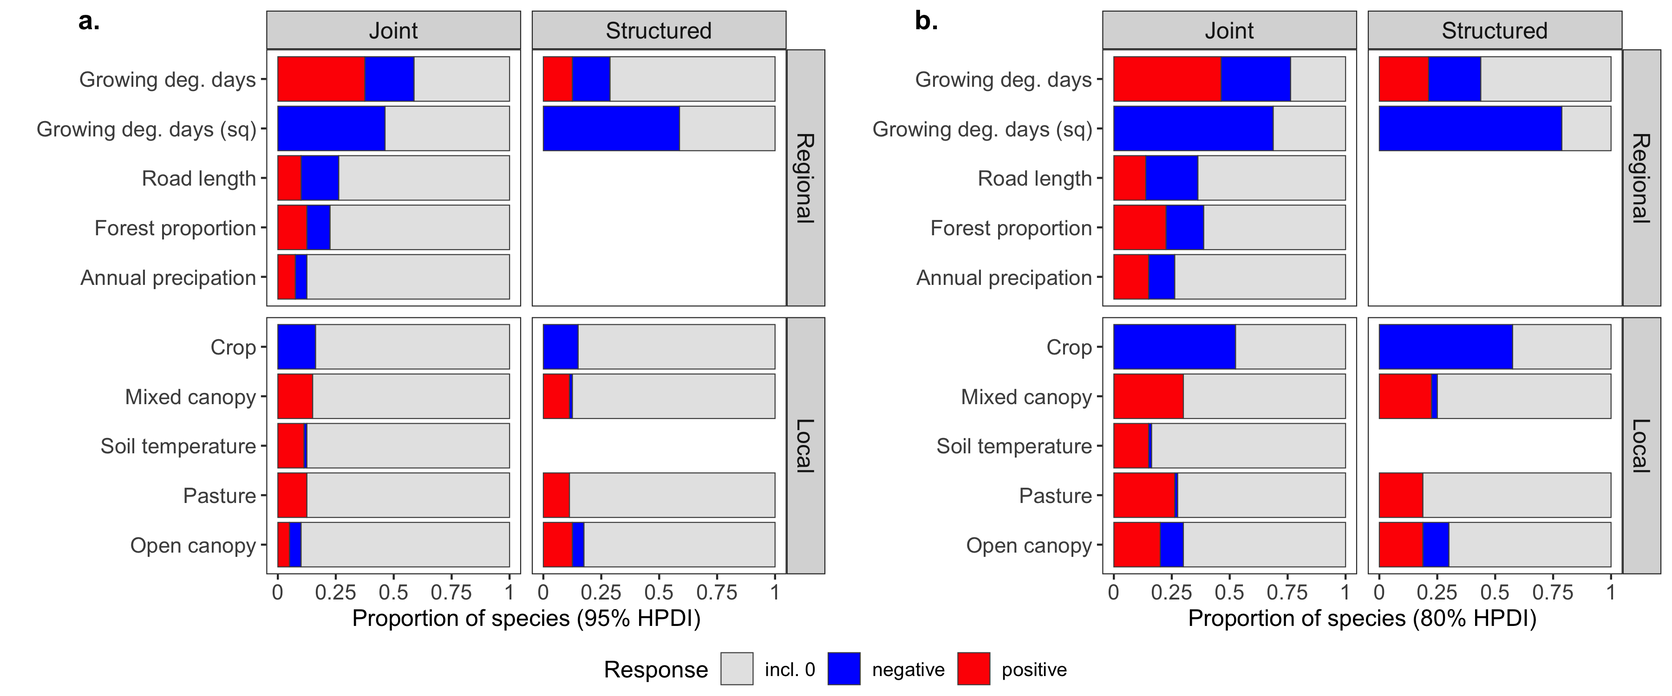
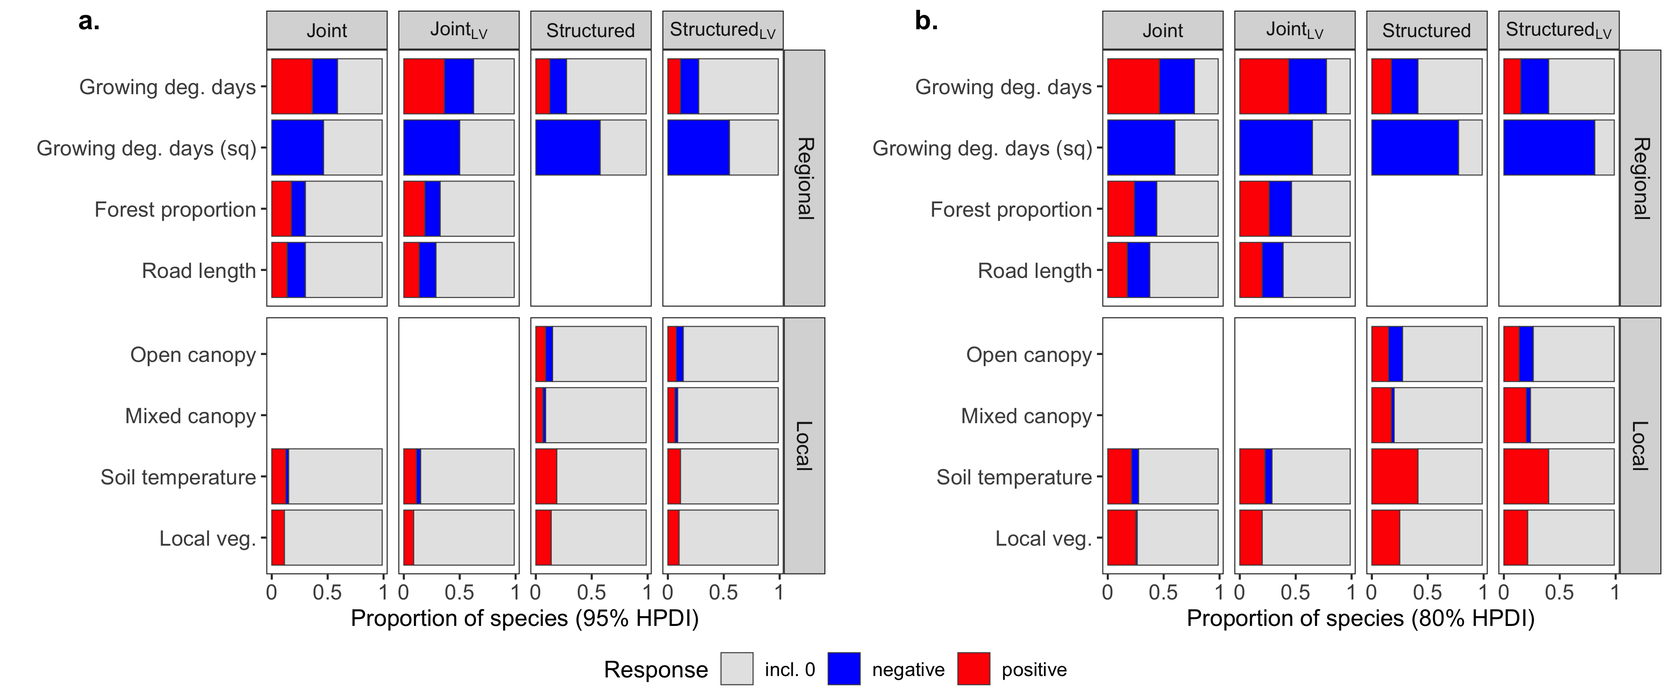
Updates from Overleaf

Changed region(s): [[0.5289, 0.0, 0.9956, 0.92], [0.0, 0.0, 0.4978, 0.92], [0.4667, 0.4293, 0.4978, 0.46]]

diff --git a/ms/1_Ecography/1/opfo_diversity_main.tex b/ms/1_Ecography/1/opfo_diversity_main.tex
@@ -83,7 +83,7 @@ What shapes species richness, diversity, and community structure at different sp
 The aid of citizen scientists can help to overcome logistical limitations common in ecological research. The large number of volunteer collectors can cover a broad spatial extent \citep{Theobald2015}, and include private land that is otherwise inaccessible to researchers \citep{Pernat2020}. Accordingly, citizen science has become increasingly common, with applications ranging from monitoring the spread of an invasive rabbit in Australia \citep{Roy-Dufresne2019} to identifying the impacts of hunting on game species' life history traits in the Amazon \citep{ElBizri2020}, and the samples collected by citizen scientists represent a large component of many ecological datasets \citep{Poisson2020}. The goals and designs of citizen science projects are of course extremely diverse, but one common focus is collecting unstructured species occurrences which are used in species distribution models \citep{Theobald2015,Steen2019,Duan2020,Henckel2020}. After data quality issues such as spatial bias are appropriately accounted for \citep{Isaac2014,Steen2019,Johnston2020,Robinson2020}, the performance of distribution models fit with citizen science data can be equivalent or superior to those fit with scientifically collected data \citep{Steen2019,Sumner2019,Henckel2020}. 
 
 % Modelling richness with presence-only data: iSDMs, jSDMs, MRMs, mSDMs
-Because survey-type citizen science projects often collect a broad set of species within a taxon, they are appealing to use for estimating community-level metrics like richness. A variety of methods have been developed, broadly categorized into those that model richness directly as a function of environmental variables, and those grew from methods for modelling individual species distributions \citep{Dubuis2011,Guisan2011,Calabrese2014,Biber2019}. For the latter, a simple approach stacks independent species distribution models, while more complex approaches model species' distributions jointly or in a hierarchical framework \citep{Caradima2019}. Alternatively, multi-species occupancy models can be used, which explicitly account for imperfect detection and predict the underlying occupancy state and probability of occurrence of each species in the community \citep{Frishkoff2019,Guillera-Arroita2019,Szewczyk2018,Devarajan2020}. However, occupancy models require presence-absence data collected across multiple sampling bouts to estimate detection probabilities, and consequently their use is largely limited to sampling designs with repeated samples.
+Survey-type citizen science projects often collect a broad set of species within a taxon, making them appealing to use for estimating community-level metrics like richness. A variety of methods have been developed, broadly categorized into those that model richness directly as a function of environmental variables, and those grew from methods for modelling individual species distributions \citep{Dubuis2011,Guisan2011,Calabrese2014,Biber2019}. For the latter, a simple approach stacks independent species distribution models, while more complex approaches model species' distributions jointly or in a hierarchical framework \citep{Caradima2019}. Alternatively, multi-species occupancy models can be used, which explicitly account for imperfect detection and predict the underlying occupancy state and probability of occurrence of each species in the community \citep{Frishkoff2019,Guillera-Arroita2019,Szewczyk2018,Devarajan2020}. However, occupancy models require presence-absence data collected across multiple sampling bouts to estimate detection probabilities, and consequently their use is largely limited to sampling designs with repeated samples.
 
 % Methods for merging datasets
 Recent data integration techniques allow researchers to capitalize on the strengths of unstructured presence-only datasets while overcoming their limitations by combining them with structured samples \citep{Isaac2019,Miller2019}. These data integration methods aim to exploit the respective strengths of unstructured presence-only datasets such as those collected by citizen scientists, and structured samples collected by researchers. Models based on these integrated datasets often outperform those based on the individual structured and unstructured datasets \citep{Dorazio2014b,Fithian2015,Koshkina2017a}. For example, presence-only citizen science data are often better at detecting rare species, while datasets collected in a structured manner better represent community composition and abundance \citep{Steen2019,Henckel2020,Pernat2020}. Bayesian methods naturally and flexibly accommodate the incorporation of multiple datasets \citep{Clark2005,BeckEtAl2012,Szewczyk2018}, either by estimating a joint likelihood for all observations, or by incorporating the unstructured presence-only dataset as a covariate or via prior distribution \citep{Fletcher2019,Isaac2019,Miller2019}. 
@@ -105,11 +105,11 @@ Here, we combine species occurrences of ants collected in a citizen science proj
 \section{Methods}
 \label{S:2}
 \subsection{Study region \& sampling design}
-This study focuses on ant species in the canton of Vaud in western Switzerland (46.2–47.0$^{\circ}$N, 6.1–7.2$^{\circ}$E), a topographically heterogeneous region (372–3201m) that includes the Jura mountains in the west, the Alps in the east, and the Swiss plateau centrally (Fig. \ref{fig:VD_map}). Much of the central plateau is dominated by anthropogenic land use, including cropland, vineyards, pastures, and urban areas, with areas of predominantly deciduous forest. The mountainous regions span the forested montane and subalpine zones through the alpine zone, with widespread cattle grazing \citep{Delarze2015,Gago-Silva2017,Beck2017}. 
+This study focuses on ant species in the canton of Vaud in western Switzerland (46.2–47.0$^{\circ}$N, 6.1–7.2$^{\circ}$E), a topographically heterogeneous region (372–3201m) that includes the Jura mountains in the west, the Alps in the east, and the Swiss plateau centrally (Fig. \ref{fig:VD_map}). Much of the central plateau is dominated by anthropogenic land use, including cropland, vineyards, pastures, and urban areas, with forested areas that are predominantly deciduous. The mountain ranges rise steeply from the plateau from approximately 1000m and span the forested montane and subalpine zones through the alpine zone, with widespread cattle grazing \citep{Delarze2015,Gago-Silva2017,Beck2017}. 
 
 \begin{figure}
 	\centering\includegraphics[width=3.5in]{ms/1_Ecography/1/figs/map_VD+inset.png}
-	\caption{\label{fig:VD_map} Map of the canton of Vaud, Switzerland. Samples consisted of presence-only data (blue points) and structured abundance data collected at 1 km$^2$ long-term biodiversity monitoring sites (red squares). The canton is comprised of a low-elevation central plateau, the Jura mountains in the west, and the Alps in the east. }
+	\caption{\label{fig:VD_map} Map of the canton of Vaud, Switzerland. Samples consisted of presence-only data (blue points) and structured abundance data collected at 1 km$^2$ long-term biodiversity monitoring sites (red squares). }
 \end{figure}
 
 % Methods for citizen science data
@@ -150,7 +150,7 @@ The structured abundances, \textbf{Y}, are observed at the local scale. The numb
         log(\lambda_{is}) = a_s V_i + \gamma_s \zeta_i + log(h\Lambda_{js}) \\
         \label{eq:lambda}
     \end{equation}
-where \textbf{V} is a matrix of local environmental covariates, $a_s$ is a vector of species-specific responses, $\zeta_i$ is a latent variable representing unmeasured local variables or biotic interactions with $\gamma_s$ as a species-specific latent variable coefficient constrained between $-1$ and $1$ \citep{Ovaskainen2016,Caradima2019,Tobler2019}, $h$ is a constant scaling factor representing the proportion of site $j$ sampled by plot $i$ (1.2 $m^2 /$ 1 km$^2$ = 1.2e-6), and $\Lambda_{js}$ is the regional intensity of species $s$ at site $j$. Thus, $log(h\Lambda_{js})$ functions as a site-level intercept or mean intensity, determining the baseline expected intensity at each plot within each site, with local intensities further dependent on the effects of the local environment \citep{Yamaura2016,Miller2019}.
+where \textbf{V} is a matrix of local environmental covariates, $a_s$ is a vector of species-specific responses, $\zeta_i$ is a latent variable representing unmeasured local environmental variables or biotic interactions with $\gamma_s$ as a species-specific latent variable coefficient constrained between $-1$ and $1$ \citep{Ovaskainen2016,Caradima2019,Tobler2019}, $h$ is a constant scaling factor representing the proportion of site $j$ sampled by plot $i$ (1.2 $m^2 /$ 1 km$^2$ = 1.2e-6), and $\Lambda_{js}$ is the regional intensity of species $s$ at site $j$. Thus, $log(h\Lambda_{js})$ functions as a site-level intercept or mean intensity, determining the baseline expected intensity at each plot within each site, with local intensities then modified by effects of the local environment \citep{Yamaura2016,Miller2019}.
 
 The presence-only data, \textbf{W}, are observed as detections of each species within 1 km$^2$ grid cells at the regional scale. The number of detections of each species $s=1 \dots S$ within each 1 km$^2$ cell $k$ follow a multinomial distribution such that:
     \begin{equation}
@@ -159,7 +159,7 @@ The presence-only data, \textbf{W}, are observed as detections of each species w
     \end{equation}
 where $\{W_{ks}\}_{s=1}^{S}$ is a vector of length $S$ with the number of detections for each species within the cell, $\sum_{1}^{S} W_{ks}$ is the total number of detections within the cell, $D_s$ is the proportional detection bias for each species, which accounts for bias in the community composition based on species that are more likely to be observed, and $\varsigma_k(\cdot)$ is the softmax function which converts the weighted intensities to probabilities that sum to 1 within each cell. For each species $s$ in cell $k$, the observed count $W_{ks}$ is expected to be higher if the species has high relative abundance ($\Lambda_{ks}$ is larger relative to other species), more samples were collected ($\sum_{s=1}^{S} W_{ks}$ is larger), or if species $s$ is likely to be over-represented in the presence-only dataset ($D_s$ is larger). The presence-only counts thus inform the relative patterns of species across the landscape, while accounting for spatial and taxonomic bias in sampling intensity \citep{Isaac2014}.
 
-While \textbf{W} and \textbf{Y} are each modelled with distinct sampling submodels to represent their particular sampling methods, both $\Lambda_{js}$ and $\Lambda_{ks}$ represent the latent intensity of species $s$ at an identical 1 km$^2$ regional scale. Consequently, the regional intensity $\Lambda_{(j,k)s}$ is a shared parameter that links the two datasets \citep{Hefley2016,Isaac2019,Miller2019}. The ecological processes driving variation in regional intensity are assumed to be the same, and the intensities are modelled together in a single regression such that:
+While \textbf{W} and \textbf{Y} are each modelled with distinct sampling submodels to represent their particular sampling methods, both $\Lambda_{js}$ and $\Lambda_{ks}$ represent the latent intensity of species $s$ at an identical 1 km$^2$ regional scale. Consequently, the regional intensity $\Lambda_{(j,k)s}$ is a shared parameter that links the two datasets \citep{Hefley2016,Isaac2019,Miller2019}. The ecological processes driving variation in regional intensity are assumed to be the same across datasets, and the intensities are modelled together in a single regression such that:
     \begin{equation}
         log(\Lambda_{(j,k)s}) = b_s X_{(j,k)} \\
         \label{eq:LAMBDA}
@@ -168,35 +168,35 @@ where $b_s$ is a vector of species-specific slopes, and \textbf{X} is a matrix o
 
 The slopes $a_s$ and $b_s$ are species-specific responses at local and regional scales, respectively, and are distributed about genus-level means $A_g$ and $B_g$ with standard deviations $\sigma_a$ and $\sigma_b$. The genus-level means are in turn distributed about aggregate means, $\alpha$ and $\beta$, with correlation matrices $\Sigma_A$ and $\Sigma_B$, which reflect the overall responses of the ant community to environmental variables at each resolution while accounting for relatedness at the genus level \citep{Hadfield2010b,Ovaskainen2011,Szewczyk2018,Caradima2019}.
 
-Prior distributions were lightly informative to constrain the sampling algorithm to plausible ranges. Specifically, aggregate slopes $\alpha$ and $\beta$ were distributed Normal($\mu=0$, $\sigma=1$), the intensity intercept $\beta_0$ was distributed Normal($\mu=-4$, $\sigma=2$), standard deviations for species and genus slopes were distributed Normal($\mu=0$, $\sigma=2$) and constrained to be positive, the correlation matrices used a Cholesky decomposition and followed an LKJ prior as recommended for better model fitting \citep{Carpenter2017,Caradima2019} with $\eta=2$, and the proportional taxonomic bias term $D$ was distributed Normal($\mu=1$, $\sigma=1$) and constrained to be positive. Code for the full model is available on GitHub (https://github.com/Sz-Tim/CH\_diversity -- versioned DOI at submission).
+Prior distributions were lightly informative to constrain the sampling algorithm to plausible ranges. Specifically, aggregate slopes $\alpha$ and $\beta$ were distributed Normal($\mu=0$, $\sigma=1$), the log intensity intercept $\beta_0$ was distributed Normal($\mu=-4$, $\sigma=2$), standard deviations for species and genus slopes were distributed Normal($\mu=0$, $\sigma=2$) and constrained to be positive, the correlation matrices used a Cholesky decomposition and followed an LKJ prior as recommended for better model performance \citep{Carpenter2017,Caradima2019} with $\eta=2$, and the proportional taxonomic bias term $D$ was distributed Normal($\mu=1$, $\sigma=1$) and constrained to be positive. Code for the full model is available on GitHub (https://github.com/Sz-Tim/CH\_diversity -- versioned DOI at submission).
 
-Finally, several quantities were calculated in sample from the posterior. Probability of presence was calculated as $1 - e^{-\Lambda_{(j,k)s}}$ at the regional scale \citep{Hefley2016}, and $1 - pr(0 | \lambda_{is}, \theta)$ at the local scale. Predicted richness was calculated within each plot or grid cell as the sum of species-level Bernoulli draws based on the probability of presence. Shannon's H was calculated at each plot using $\lambda_{i,1:S}$ and in each cell using $\Lambda_{(j,k),1:S}$. Total predicted intensity was calculated as $\sum_{s=1}^{S}\Lambda_{(j,k)s}$ and $\sum_{s=1}^{S}\lambda_{is}$. The correlation in residuals among species was calculated as $\gamma \gamma^T + diag(1 - \gamma^2)$ \citep{Tobler2019}. Thus, posterior predictions of local patterns were based only on the local plots at the 44 structured sites, while those of regional patterns were based on the 44 structured sites and the entire gridded landscape for Vaud (Fig. \ref{fig:VD_map}). 
+Finally, several quantities were calculated in sample from the posterior. Probability of presence was calculated as $1 - e^{-\Lambda_{(j,k)s}}$ at the regional scale \citep{Hefley2016}, and $1 - pr(0 | \lambda_{is}, \theta)$ at the local scale. Predicted richness was calculated within each plot or grid cell as the sum of species-level Bernoulli draws based on the probability of presence. Shannon's H was calculated at each plot using $\lambda_{i,1:S}$ and in each cell using $\Lambda_{(j,k),1:S}$. Total predicted intensity was calculated as $\sum_{s=1}^{S}\Lambda_{(j,k)s}$ and $\sum_{s=1}^{S}\lambda_{is}$. The correlation in residuals among species was calculated as $\gamma \gamma^T + diag(1 - \gamma^2)$ \citep{Tobler2019}. Posterior predictions of local patterns were based only on the local plots at the 44 structured sites, while those of regional patterns were based on the 44 structured sites and the entire gridded landscape for Vaud (Fig. \ref{fig:VD_map}). 
 
 
 \subsection{Variable selection \& model fitting}
-To evaluate the effect of including the presence-only data, \textbf{W}, we compared a version of the model with and without \textbf{W}. We refer to the model that uses both \textbf{W} and \textbf{Y} as the \emph{Joint} model, and the model using only \textbf{Y} as the \emph{Structured} model. The \emph{Structured} model therefore does not include Eq. \ref{eq:W_Mn}, but nevertheless includes species only detected in \textbf{W}. We performed variable selection separately on the two models.
+To evaluate the effect of including the presence-only data, \textbf{W}, we compared a version of the model with and without \textbf{W}. We refer to the model that uses both \textbf{W} and \textbf{Y} as the \emph{Joint} model, and the model using only \textbf{Y} as the \emph{Structured} model. The \emph{Structured} model therefore does not include Eq. \ref{eq:W_Mn}, but nevertheless includes species only detected in \textbf{W}. Additionally, we compared versions of each model with and without the local latent variable term ($\gamma_s \zeta_i$, \ref{eq:Y_GP}), where the former is denoted with a subscript $LV$. We performed variable selection separately on the four models.
 
-Because comparing all possible models was not feasible, variable selection was performed using a 4-fold cross-validation with a step-wise forward search. The 44 sites in the structured abundance dataset \textbf{Y} were divided into 4 subsets using the R package \emph{caret} 6.0.86. The models were parameterized using 3 of the subsets and predictive ability assessed using the 4$^{th}$, with four separate model runs such that all subsets were predicted once. In each round, the log pointwise predictive density of the observed abundances given the predicted local intensities for each candidate model was calculated and compared using the R package \emph{loo} 2.3.1. Variables were added sequentially until predictive ability unambiguously declined, and the variable sets for the \emph{Joint} and \emph{Structured} models with the best out-of-sample predictive ability were considered optimal.
+Because comparing all possible models was not feasible, variable selection was performed using a 4-fold cross-validation with a step-wise forward search. The 44 sites in the structured abundance dataset \textbf{Y} were divided into 4 subsets using the R package \emph{caret} 6.0.86. The models were parameterized using 3 of the subsets and predictive ability assessed using the 4$^{th}$, with four separate model runs such that all subsets were predicted once. In each round, the log pointwise predictive density of the observed abundances given the predicted local intensities for each candidate model was calculated and compared using the R package \emph{loo} 2.3.1. Variables were added sequentially, and the variable sets for the $Joint$, $Joint_{LV}$, $Structured$, and $Structured_{LV}$ models with the best out-of-sample predictive ability were considered optimal.
 
-We assessed model performance of the optimal models based on deviance using the structured abundance observations such that $d = \sum_{i=1}^{I}\sum_{s=1}^S log(P(Y_{is} | \lambda_{is}, \theta))$ in each sample from the posterior, with the explanatory power of each proposed model as $D^2 = \frac{d_{null} - d_{proposed}}{d_{null}}$ \citep{Guisan2000,Caradima2019}. We used an intercept-only model fit with the structured abundances as the null model. We calculated an overall $D^2$ using all abundances, species-specific $D^2_s$ to compare performance across species, and plot-specific $D^2_i$ to compare performance across elevations.
+We assessed model performance of the optimal models based on deviance using the structured abundance observations such that $d = \sum_{i=1}^{I}\sum_{s=1}^S log(P(Y_{is} | \lambda_{is}, \theta))$ in each sample from the posterior, with the explanatory power of each proposed model as $D^2 = \frac{d_{null} - d_{proposed}}{d_{null}}$ \citep{Guisan2000,Caradima2019}. We used an intercept-only model fit with the structured abundances as the null model. We calculated an overall $D^2$ using all abundances, species-specific $D^2_s$ to compare performance across species, and plot-specific $D^2_i$ to compare performance across elevations. We calculated these metrics for the fitted full model, and for the predicted subsets during the 4-fold cross validation to assess improvement in performance for out-of-sample plots in the optimal models.
 
-All Bayesian models were written in Stan \citep{Carpenter2017} and run in \emph{CmdStan} 2.23.0. In contrast to BUGS or JAGS, which use Gibbs samplers for the Markov Chain Monte Carlo algorithm, Stan uses a Hamiltonian Monte Carlo algorithm which requires a warm-up period to tune the sampler parameters rather than a burn-in period. During variable selection, we ran 3 chains for each model with 2,500 iterations per chain, with 2,000 iterations for the warm-up period. For the optimal models, we ran 12 chains with 2,250 iterations each, with 2,000 iterations for the warm-up period. Model behavior and convergence was assessed by confirming that all $\hat{R}$ values were $\leq$ 1.1, visually inspecting a selection of trace plots, and confirming that no divergent transitions occurred during the sampling, which would indicate a poor approximation of the joint posterior distribution. Highest Posterior Density Intervals (HPDIs) were calculated for all parameters of interest using the R package \emph{HDInterval} 0.2.2.
+All Bayesian models were written in Stan \citep{Carpenter2017} and run in \emph{CmdStan} 2.23.0. In contrast to BUGS or JAGS, which use Gibbs samplers for the Markov Chain Monte Carlo algorithm, Stan uses a Hamiltonian Monte Carlo algorithm which requires a warm-up period to tune the sampler parameters rather than a burn-in period. During variable selection, we ran 3 chains for each model with 2,500 iterations per chain, with 2,000 iterations for the warm-up period. For the optimal models, we ran 12 chains with 2,250 iterations each, with 2,000 iterations for the warm-up period. Model behavior and convergence was assessed by confirming that all $\hat{R}$ values were $\leq$ 1.1, visually inspecting a selection of trace plots including hyperparameters, and confirming that no divergent transitions occurred during the sampling, which would indicate a poor approximation of the joint posterior distribution. Highest Posterior Density Intervals (HPDIs) were calculated for all parameters of interest using the R package \emph{HDInterval} 0.2.2.
 
 
 \subsection{Community analyses}
-Using the $\lambda$ posterior medians, we calculated the $\beta$-diversity among plots within each site using the R package \emph{betapart} 1.5.1. The overall $\beta$-diversity at each site was partitioned into the balanced variation and abundance-gradient components, representing changes in relative abundance among species and changes in total abundance, respectively \citep{Baselga2017}. Change across elevation was assessed using linear and quadratic regressions compared with AICc using the R package \emph{AICcmodavg} 2.3.0. A double principal coordinates analysis (DPCoA) was also performed using $\lambda$ posterior medians to assess similarity in taxonomically-weighted community structure among plots \citep{Dray2015,Pavoine2019} using the R packages \emph{ade4} 1.7.15 and \emph{vegan} 2.5.6. 
+Using the $\lambda$ posterior medians, we calculated the $\beta$-diversity among plots within each site using the R package \emph{betapart} 1.5.1. The overall $\beta$-diversity at each site was partitioned into the balanced variation and abundance-gradient components, representing changes in relative abundance among species and changes in total abundance, respectively \citep{Baselga2017}. Change across elevation for total $\beta$-diversity and each component was assessed using linear and quadratic regressions compared with AICc using the R package \emph{AICcmodavg} 2.3.0. A double principal coordinates analysis (DPCoA) was also performed using $\lambda$ posterior medians to assess similarity in taxonomically-weighted community structure among plots \citep{Dray2015,Pavoine2019} using the R packages \emph{ade4} 1.7.15 and \emph{vegan} 2.5.6. The elevational distribution of each species was characterized by the observed elevational range, and by the proportion of total $\Lambda$ in plateau ($<$1000m) or montane ($\geq$1000m) environments.
 
 
 
 
 \section{Results}
 \label{S:3}
-A total of 80 species were detected across both datasets, with 76 in the presence-only dataset and 51 in the structured abundance dataset. There were 29 species detected only in the presence-only dataset, and 4 species detected only in the structured abundance dataset. The presence-only dataset contained 6460 samples collected by citizen scientists and 363 supplemental transect or tree samples, covering nearly half of the grid (1324 cells with occurrences = 42\%; range: 1–162 occurrences; median: 3 occurrences). The structured abundance dataset contained 1017 colonies detected across the 44 sites (per-site median: 22.5 colonies; range: 6–58 colonies). 
+A total of 79 species were detected across both datasets, with 76 in the presence-only dataset and 51 in the structured abundance dataset. There were 28 species detected only in the presence-only dataset, and 3 species detected only in the structured abundance dataset. The presence-only dataset contained 6460 samples collected by citizen scientists and 363 supplemental transect or tree samples, covering nearly half of the grid (1324 cells with occurrences = 42\%; range: 1–162 occurrences; median: 3 occurrences). The structured abundance dataset contained 1017 colonies detected across the 44 sites (per-site median: 22.5 colonies; range: 6–58 colonies). 
 
 % Model performance & covariates
-The model parameterized with both the presence-only and structured abundance datasets (\emph{Joint} model) outperformed the model parameterized with only the structured abundance dataset (\emph{Structured} model), though both showed dramatic improvements compared to the intercept-only model (\emph{Joint} $D^2$ mean: TK, 95\% HPDIs: TK–TK; \emph{Structured} $D^2$ mean: 0.211, 95\% HPDIs: 0.202–0.219). Model performance was like this across species (\emph{Joint} $D^2_s$ mean ± SE: TK ± TK; \emph{Structured} $D^2_s$ mean ± SE: TK ± TK). Across elevations, there was no clear pattern in $D^2_i$.
+\textbf{UPDATE THIS SENTENCE:} The model parameterized with both the presence-only and structured abundance datasets (\emph{Joint}$_{LV}$ model) outperformed the model parameterized with only the structured abundance dataset (\emph{Structured} model), whether or not a local latent variable was included. Both showed clear improvements compared to the intercept-only model (\emph{Joint} $D^2$ mean: TK, 95\% HPDIs: TK–TK; \emph{Joint}$_{LV}$ $D^2$ mean: TK, 95\% HPDIs: TK–TK; \emph{Structured} $D^2$ mean: TK, 95\% HPDIs: TK–TK; \emph{Structured}$_{LV}$ $D^2$ mean: TK, 95\% HPDIs: TK–TK). Model performance was like this across species (\emph{Joint} $D^2_s$ mean ± SE: TK ± TK; \emph{Joint}$_{LV}$ $D^2_s$ mean ± SE: TK ± TK; \emph{Structured} $D^2_s$ mean ± SE: TK ± TK; \emph{Structured}$_{LV}$ $D^2_s$ mean ± SE: TK ± TK). Across elevations, there was no clear pattern in $D^2_i$ (\textbf{Appendix 2 Fig. X}).
 
-In the cross-validation, the \emph{Joint} model consistently predicted local abundances better than the \emph{Structured} model (\textbf{Table}). The optimal variables for both models included growing degree days at a regional scale, and local effects of soil temperature, canopy type, cropland, and pastureland (Fig. \ref{fig:slope_means}). The optimal \emph{Joint} model also included regional effects of net primary productivity, forest cover, and TK, and local effects of total vegetation. For many variables, species showed a variety of responses, resulting in no clear aggregate effect as the 95\% Highest Posterior Density Intervals (HPDIs) for $\beta$ included zero. However, the aggregate effect of growing degree days was positive in the \emph{Joint} model, and the aggregate effects of squared growing degree days and cropland were negative in both models. For soil temperature, pasture, and mixed canopy, nearly all species with non-zero HPDIs showed positive responses (\textbf{Appendix 2 Figure}). The \emph{Joint} model reduced uncertainty in species' responses compared to the \emph{Structured} model across most covariates (Fig. \ref{fig:slope_means}b). This reduction occurred on average across all species, but was greater for species that did not occur in the structured abundance dataset \textbf{Y}.
+In the cross-validation, the \emph{Joint} models consistently predicted local abundances better than the \emph{Structured} models (\textbf{Table}). In both cases, the inclusion of a local latent variable did not impact the optimal variables. The optimal variables for all models included growing degree days at a regional scale, and local effects of TK (Fig. \ref{fig:slope_means}). The optimal \emph{Joint} models also included regional effects of net primary productivity, forest cover, and TK, and local effects of total vegetation. For many variables, species showed a variety of responses, resulting in no clear aggregate effect as the 95\% Highest Posterior Density Intervals (HPDIs) for $\beta$ included zero. However, the aggregate effect of growing degree days was positive in the \emph{Joint} models, and the aggregate effects of squared growing degree days and cropland were negative in both models. For soil temperature, pasture, and mixed canopy, nearly all species with non-zero HPDIs showed positive responses (\textbf{Appendix 2 Figure}). The \emph{Joint} model reduced uncertainty in species' responses compared to the \emph{Structured} model across most covariates (Fig. \ref{fig:slope_means}b). This reduction occurred on average across all species, but was greater for species that did not occur in the structured abundance dataset \textbf{Y}.
 
 \begin{figure}
 \centering\includegraphics[width=6in]{ms/1_Ecography/1/figs/slope_means+HDI.png}
@@ -208,14 +208,14 @@ Across the canton of Vaud, predicted ant richness showed a peak just below 1000m
 
 \begin{figure}
 	\centering\includegraphics[width=6in]{ms/1_Ecography/1/figs/el_patterns.png}
-	\caption{\label{fig:el_patterns} Elevational patterns of posterior distributions at regional and local scales for (a) species richness, (b) Shannon H diversity, and (c) total colony intensity. Lines and ribbons are loess lines using the posterior medians and 95\% Highest Posterior Density Interval, respectively, for the model parameterized with both datasets (\emph{Joint}: purple) and the model parameterized with only the structured abundance data (\emph{Structured}: green). }
+	\caption{\label{fig:el_patterns} Elevational patterns of posterior distributions at regional and local scales for (a) species richness, (b) Shannon H diversity, and (c) total colony intensity. Lines and ribbons are loess lines using the posterior medians and 95\% Highest Posterior Density Interval, respectively, for the model parameterized with both datasets (\emph{Joint}: purple) and the model parameterized with only the structured abundance data (\emph{Structured}: green), with (darker shades) and without (lighter shades) a local latent variable. }
 \end{figure}
 
 The local ant communities showed strong separation across elevations. Using the posterior median local communities predicted by the \emph{Joint} model, communities formed two distinct clusters representing plateau ($<$1000m) and montane ($\geq$1000m) plots (Fig. \ref{fig:dpcoa}). The DPCoA accounts for relatedness among species, with the 100m elevational bins (Fig. \ref{fig:dpcoa}a) or regions (Fig. \ref{fig:dpcoa}b) applied \emph{post-hoc}. No clear pattern is seen at elevations $<$1000m, while elevation increases down the y-axis at elevations $\geq$1000m. Plateau communities form a broader cluster, indicating greater variation among local ant communities. Montane communities form a smaller cluster, with little differentiation in the communities found in the western Jura mountains and those in the eastern Alps.
 
 \begin{figure}
 	\centering\includegraphics[width=5in]{ms/1_Ecography/1/figs/DPCoA.png}
-	\caption{\label{fig:dpcoa} Double principle coordinate analysis (DPCoA) of local communities predicted by the \emph{Joint} model, with plots colored by (a) elevational bin, and (b) region. The central plateau includes hills from ~300m to ~1000m, with the Jura and the Alps rising steeply in the east and west, respectively. }
+	\caption{\label{fig:dpcoa} Double principle coordinate analysis (DPCoA) of local communities predicted by the $Joint_{LV}$ model, with plots colored by (a) elevational bin, and (b) region. The central plateau includes hills from $\sim$300m to $\sim$1000m, with the Jura and the Alps rising steeply in the east and west, respectively. }
 \end{figure}
 
 Both the presence-only (\textbf{W}) and structured abundance (\textbf{Y}) datasets showed strong differences in the genus composition between the plateau and montane samples (Fig. \ref{fig:genus_assemblages}). In both datasets, the plateau ($<$1000m) was dominated by \emph{Lasius spp.}, with high representation of \emph{Formica spp.} in the montane zone ($\geq$1000m). The structured abundance dataset also showed high relative abundance of \emph{Myrmica spp.}, particularly in montane environments. Compared to the structured abundance dataset, the presence-only dataset under-represented 15 species (19\%) based on 95\% HPDIs (\textbf{Appendix 2 Fig}). Nine of those species were in the genus \emph{Myrmica}, which was particularly prevalent in the montane structured abundance samples. In contrast, only 3 species were over-represented, including the anthropophilic pavement ant \emph{Tetramorium immigrans}, and two species of large-bodied mound-building \emph{Formica}. 
@@ -251,6 +251,9 @@ Divergent patterns at a local vs. regional scale. Seems like there's some densit
 % Supported drivers
 Paragraph on supported environmental drivers. Temperature preferences vary a lot between species. So do canopy effects. Crop is universally bad, pasture is mostly good. Local soil temperature is mostly good. 
 
+% Latent variable and correlations
+Paragraph speculating about what the latent variable and species correlation could represent. Probably more an unmeasured covariate than biotic interactions, looking at the correlation matrix. Maybe something that could affect the suitability for colony construction like the number of nice rocks or something.
+
 % Assemblages
 Paragraph on assemblages. There's some work that supported this, but it's not the most common thing to find based on my memory. But in these ants it's pretty clear that the communities cluster into plateau and montane assemblages. However, this distinction is driven by a minority of species; 51\% of species were detected in both the plateau and the montane, with 34\% restricted to the plateau and 15\% exclusively montane. Thus, while the local communities can be clearly distinguished, that does not mean they are entirely distinct. Given the differences between the Jura and the Alps (which are what?), it's maybe a little surprising to not really see any differentiation. On the other hand, how determined are these lambdas by the environment? If the regional and local variables don't show much differentiation between the two mountain ranges, then the lambdas wouldn't either... I could add a PCA of the environmental variables to the appendix. But even so, there's nothing in the model that forces the communities to separate cleanly by elevation. That's a reflection of the data. I should also add an appendix figure of the elevational range of each species. There's also more local variation in the species composition at lower elevations, meaning more variation in the expected species identities across plots. 
 
@@ -269,7 +272,7 @@ Conclusion
 
 
 \section{Acknowledgments}
-Thanks to everyone.
+Thanks to everyone: main people with Opération Fourmis, expert taxonomists, citizen scientists, field help, feedback from lab group.
 
 \newpage
 \section{Bibliography}
@@ -362,22 +365,42 @@ Thanks to everyone.
 \end{figure}
 
 \begin{figure}
-	\centering\includegraphics[width=5in]{ms/1_Ecography/1/figs/maps/sf_S_WY.png}
+	\centering\includegraphics[width=5in]{ms/1_Ecography/1/figs/maps/sf_S_J.png}
 	\caption{\label{fig:sf_map_Joint} Maps of predicted richness in the \emph{Joint} model for subfamilies. Predictions are based on 95\% Highest Posterior Density Intervals for each species. }
 \end{figure}
 
 \begin{figure}
-	\centering\includegraphics[width=5in]{ms/1_Ecography/1/figs/maps/sf_S_Y.png}
+	\centering\includegraphics[width=5in]{ms/1_Ecography/1/figs/maps/sf_S_J+LV.png}
+	\caption{\label{fig:sf_map_Joint+LV} Maps of predicted richness in the \emph{Joint + LV} model for subfamilies. Predictions are based on 95\% Highest Posterior Density Intervals for each species. }
+\end{figure}
+
+\begin{figure}
+	\centering\includegraphics[width=5in]{ms/1_Ecography/1/figs/maps/sf_S_S+LV.png}
+	\caption{\label{fig:sf_map_Structured+LV} Maps of predicted richness in the \emph{Structured + LV} model for subfamilies. Predictions are based on 95\% Highest Posterior Density Intervals for each species. }
+\end{figure}
+
+\begin{figure}
+	\centering\includegraphics[width=5in]{ms/1_Ecography/1/figs/maps/sf_S_S.png}
 	\caption{\label{fig:sf_map_Structured} Maps of predicted richness in the \emph{Structured} model for subfamilies. Predictions are based on 95\% Highest Posterior Density Intervals for each species. }
 \end{figure}
 
 \begin{figure}
-	\centering\includegraphics[width=6in]{ms/1_Ecography/1/figs/maps/gen_S_WY.png}
+	\centering\includegraphics[width=6in]{ms/1_Ecography/1/figs/maps/gen_S_J+LV.png}
+	\caption{\label{fig:gen_map_Joint_LV} Maps of predicted richness in the \emph{Joint + LV} model for genera with at least two species. Predictions are based on 95\% Highest Posterior Density Intervals for each species. }
+\end{figure}
+
+\begin{figure}
+	\centering\includegraphics[width=6in]{ms/1_Ecography/1/figs/maps/gen_S_J.png}
 	\caption{\label{fig:gen_map_Joint} Maps of predicted richness in the \emph{Joint} model for genera with at least two species. Predictions are based on 95\% Highest Posterior Density Intervals for each species. }
 \end{figure}
 
 \begin{figure}
-	\centering\includegraphics[width=6in]{ms/1_Ecography/1/figs/maps/gen_S_Y.png}
+	\centering\includegraphics[width=6in]{ms/1_Ecography/1/figs/maps/gen_S_S+LV.png}
+	\caption{\label{fig:gen_map_Structured_LV} Maps of predicted richness in the \emph{Structured + LV} model for genera with at least two species. Predictions are based on 95\% Highest Posterior Density Intervals for each species. }
+\end{figure}
+
+\begin{figure}
+	\centering\includegraphics[width=6in]{ms/1_Ecography/1/figs/maps/gen_S_S.png}
 	\caption{\label{fig:gen_map_Structured} Maps of predicted richness in the \emph{Structured} model for genera with at least two species. Predictions are based on 95\% Highest Posterior Density Intervals for each species. }
 \end{figure}
 
